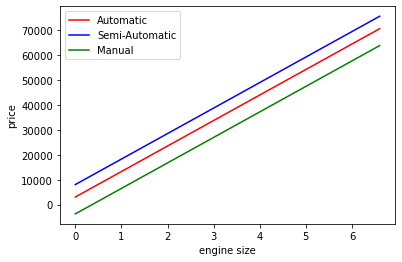
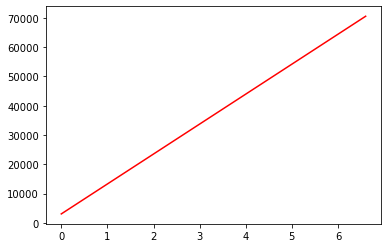
plot

diff --git a/_book/Section_3312_Variable_Interactions_&_Transformations-Copy1.html b/_book/Section_3312_Variable_Interactions_&_Transformations-Copy1.html
@@ -564,6 +564,14 @@ Name: transmission, dtype: int64</code></pre>
 <p>Automatic transmission: <span class="math inline">\(price = 3042.6765 + 1.023e4 * engineSize\)</span>,</p>
 <p>Semi-Automatic transmission: <span class="math inline">\(price = 3042.6765 + 1.023e4 * engineSize + 4994.3112\)</span>,</p>
 <p>Manual transmission: <span class="math inline">\(price = 3042.6765 + 1.023e4 * engineSize -6770.6165\)</span></p>
+<div class="cell" data-execution_count="15">
+<div class="sourceCode cell-code" id="cb10"><pre class="sourceCode python code-with-copy"><code class="sourceCode python"><span id="cb10-1"><a href="#cb10-1" aria-hidden="true" tabindex="-1"></a><span class="co">#Visualizing the developed model with interaction terms</span></span>
+<span id="cb10-2"><a href="#cb10-2" aria-hidden="true" tabindex="-1"></a>x <span class="op">=</span> np.linspace(<span class="op">-</span>train.engineSize.<span class="bu">min</span>(),train.engineSize.<span class="bu">max</span>(),<span class="dv">100</span>)</span>
+<span id="cb10-3"><a href="#cb10-3" aria-hidden="true" tabindex="-1"></a>plt.plot(x, model.params[<span class="st">'engineSize'</span>]<span class="op">*</span>x<span class="op">+</span>model.params[<span class="st">'Intercept'</span>], color <span class="op">=</span> <span class="st">'r'</span>, label<span class="op">=</span><span class="st">'Automatic'</span>)</span></code><button title="Copy to Clipboard" class="code-copy-button"><i class="bi"></i></button></pre></div>
+<div class="cell-output cell-output-display">
+<p><img src="Section_3312_Variable_Interactions_&amp;_Transformations-Copy1_files/figure-html/cell-9-output-1.png" class="img-fluid"></p>
+</div>
+</div>
 
 
 </section>
